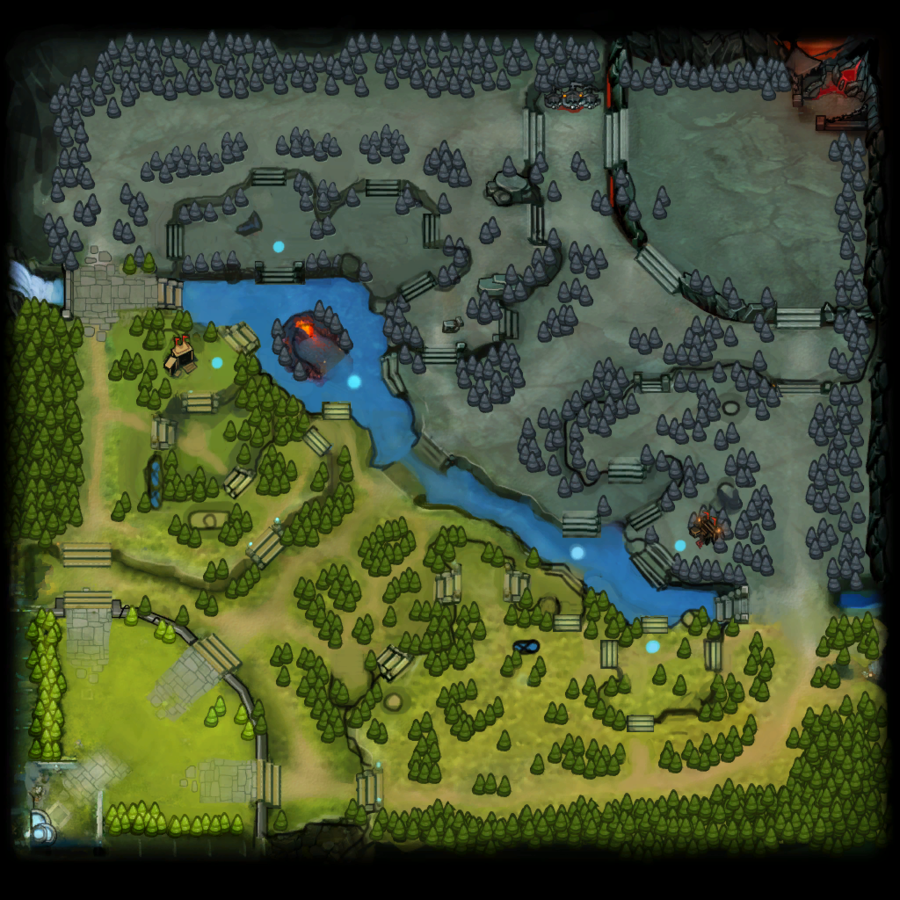
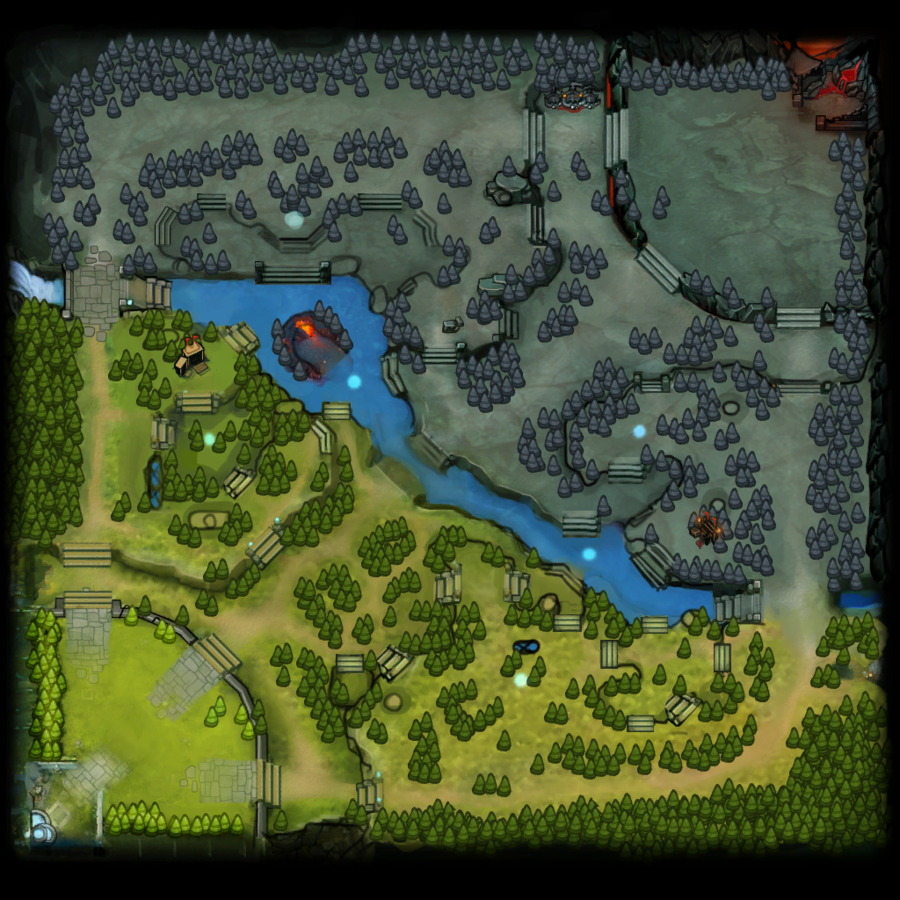
DotaMap now looks at date of match to determine which map to display

diff --git a/src/components/DotaMap/index.jsx b/src/components/DotaMap/index.jsx
@@ -9,13 +9,33 @@ const setMapSizeStyle = (width, maxWidth) => ({
   maxHeight: maxWidth,
 });
 
-// 12/13/2016 @ 5:00pm (UTC)
-const isPost700 = unixDate => unixDate > 1481648400;
+// 10/31/2017 @ 5:00pm (UTC) - patch 7.07
+const is707 = unixDate => unixDate > 1509426000;
+// 12/13/2016 @ 5:00pm (UTC) - patch 7.00
+const is700 = unixDate => unixDate > 1481648400 && unixDate < 1509426000;
+// 12/16/2015 @ 5:00pm (UTC) - patch 6.86
+const is686 = unixDate => unixDate > 1450242000 && unixDate < 1481648400;
+// 09/25/2014 @ 5:00pm (UTC) - patch 6.82
+const is682 = unixDate => unixDate > 1411621200 && unixDate < 1450242000;
+// Before 09/25/2014 @ 5:00pm (UTC) - pre patch 6.82
+const isPre682 = unixDate => unixDate < 1411621200;
 
 // TODO make this a generic function that can determine which of multiple maps to use
 const getUrl = (startTime) => {
-  if (startTime === null || isPost700(startTime)) {
+  if (startTime === null || is707(startTime)) {
+    return '/assets/images/dota2/map/detailed_707.png';
+  }
+  else if (startTime === null || is700(startTime)) {
     return '/assets/images/dota2/map/detailed_700.png';
+  }
+  else if (startTime === null || is686(startTime)) {
+    return '/assets/images/dota2/map/detailed_686.png';
+  }
+  else if (startTime === null || is682(startTime)) {
+    return '/assets/images/dota2/map/detailed_682.png';
+  }
+  else if (startTime === null || isPre682(startTime)) {
+    return '/assets/images/dota2/map/detailed_pre682.png';
   }
   return '/assets/images/dota2/map/detailed.png';
 };
